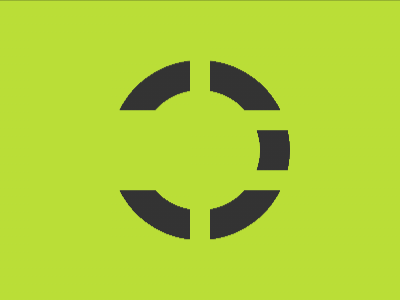
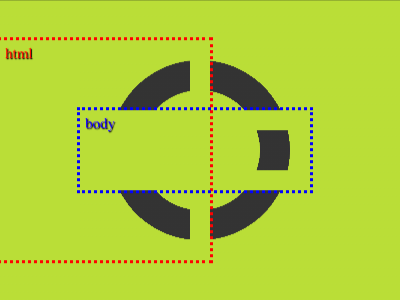
Score: 686.23, Characters: 161 (100.00% match) - CSSHub

Changed region(s): [[0.0, 0.12, 0.78, 0.9]]

diff --git a/Daily Targets/2026-09-01/README.md b/Daily Targets/2026-09-01/README.md
@@ -22,5 +22,5 @@ Challenge: <https://cssbattle.dev/play/dxpb9nkM3OEyksSbHGOY>
 ## Code
 
 ```html
-<style>*{border:5vw solid#BADE37;border-left-width:80;margin:40 190 40 30;background:radial-gradient(1Q,#bade37 60px,#333333 0 5lh,#bade37 0)fixed;*{margin:50-120 50 0
+<style>*{border:5vw solid#bade37;border-left-width:80;margin:40 190 40 0;background:radial-gradient(1Q,#bade37 60px,#333 0 5lh,#bade37)fixed;*{margin:50-120 50 0
 ```

diff --git a/README.md b/README.md
@@ -131,7 +131,7 @@
 <summary><strong>September 2026 (1/1+)</strong></summary>
 
 <ul>
-<li><a href="./Daily%20Targets/2026-09-01/">Sep 1, 2026</a> (167 Characters)</li>
+<li><a href="./Daily%20Targets/2026-09-01/">Sep 1, 2026</a> (161 Characters)</li>
 </ul>
 </details>
 </li>
